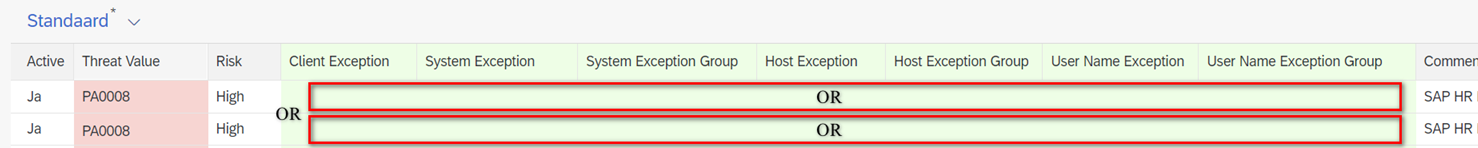
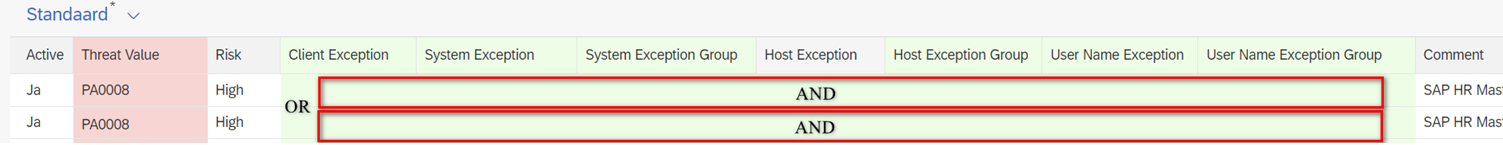
GitBook: [#476] No subject

diff --git a/application-setup/use-case-policies/configuring-policy-settings/configuring-policies.md b/application-setup/use-case-policies/configuring-policy-settings/configuring-policies.md
@@ -8,8 +8,6 @@ Only Use Cases with Threat values have an additional field Named Threat, that ha
 
 Additional Threat Values can be added for example Z table or Z report.
 
-
-
 To configure new policies, find few examples below:&#x20;
 
 #### Use Case with no known Threat value
@@ -52,12 +50,10 @@ Use cases with known threat value have a column named "Threat Value". This colum
 
 <figure><img src="../../../.gitbook/assets/image (1) (2).png" alt=""><figcaption><p>Use Case with Threat values</p></figcaption></figure>
 
-
-
 #### Handling of multiple same Threat Value
 
-If there are duplicate Threat value, the flow of handling will be an OR situation.
+If there are duplicate Threat value, the flow of handling will be an AND situation.
 
 See picture below which illustrates it:
 
-<figure><img src="../../../.gitbook/assets/image.png" alt=""><figcaption><p>Multiple same threat value entry.</p></figcaption></figure>
+<figure><img src="../../../.gitbook/assets/image (1).png" alt=""><figcaption><p>Multiple entries with same Threat Value</p></figcaption></figure>

diff --git a/application-setup/use-case-policies/configuring-policies-with-groups.md b/application-setup/use-case-policies/configuring-policies-with-groups.md
@@ -18,7 +18,7 @@ Depending on what kind of group you have created, you can use that group for the
 
 To use a group in the Policy, simply enter the group name for the corresponding Threat you would like to exempt, In our example:
 
-<figure><img src="../../.gitbook/assets/image (1).png" alt=""><figcaption><p>Use Case policy edit</p></figcaption></figure>
+<figure><img src="../../.gitbook/assets/image (1) (7).png" alt=""><figcaption><p>Use Case policy edit</p></figcaption></figure>
 
 Only 1 group can be assigned per Threat, should you have multiple groups, you can define different groups per Threat, should you wish to do so.
 
